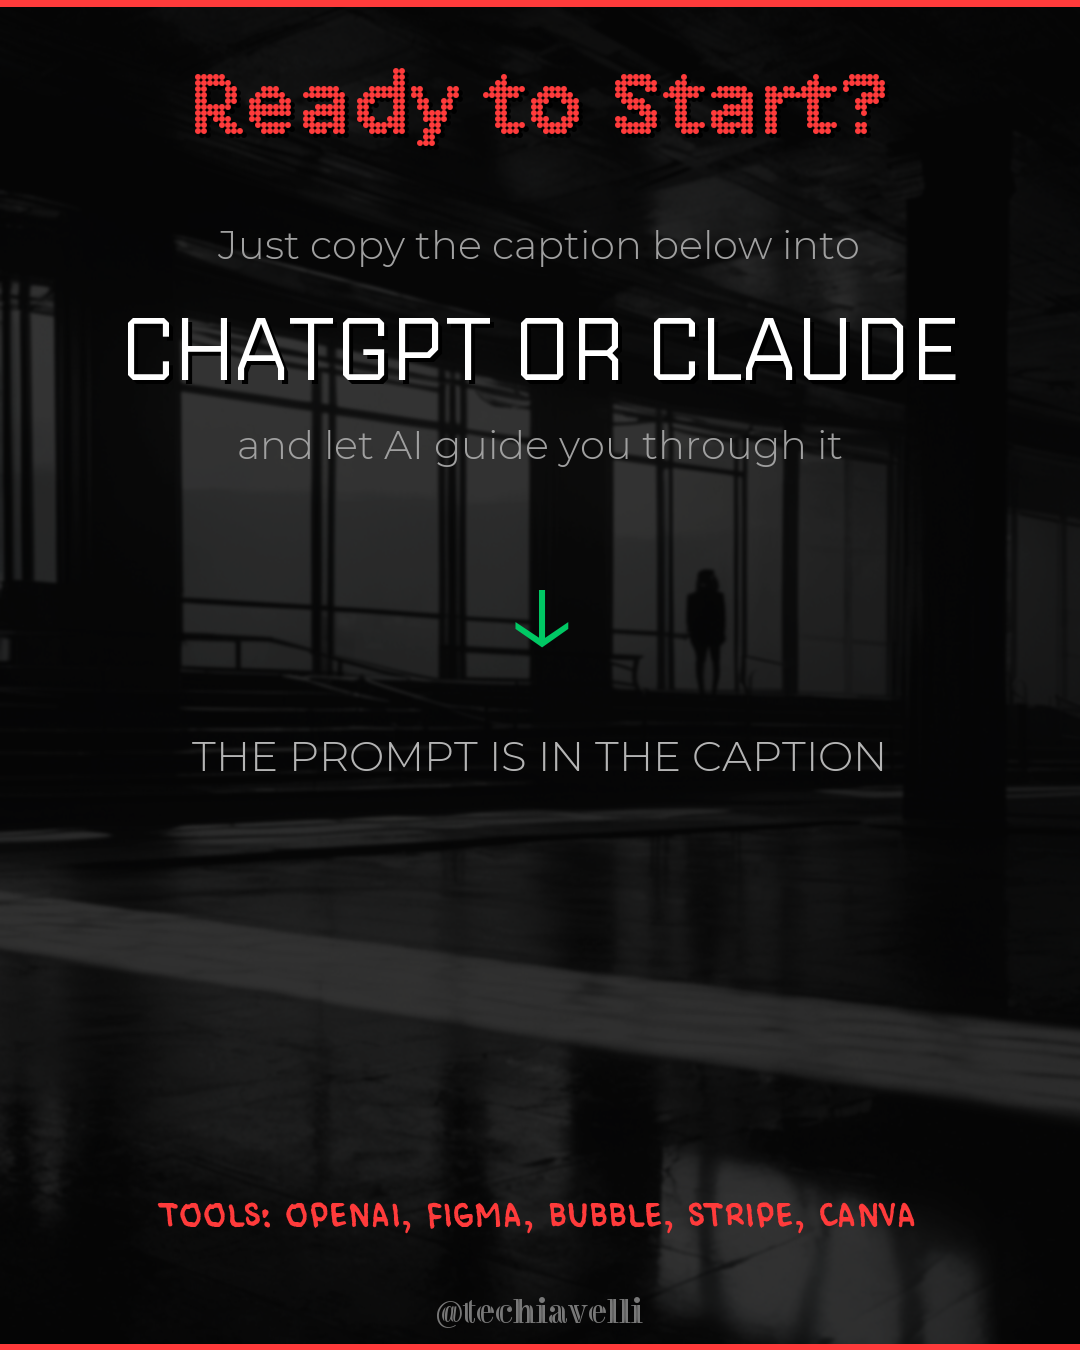
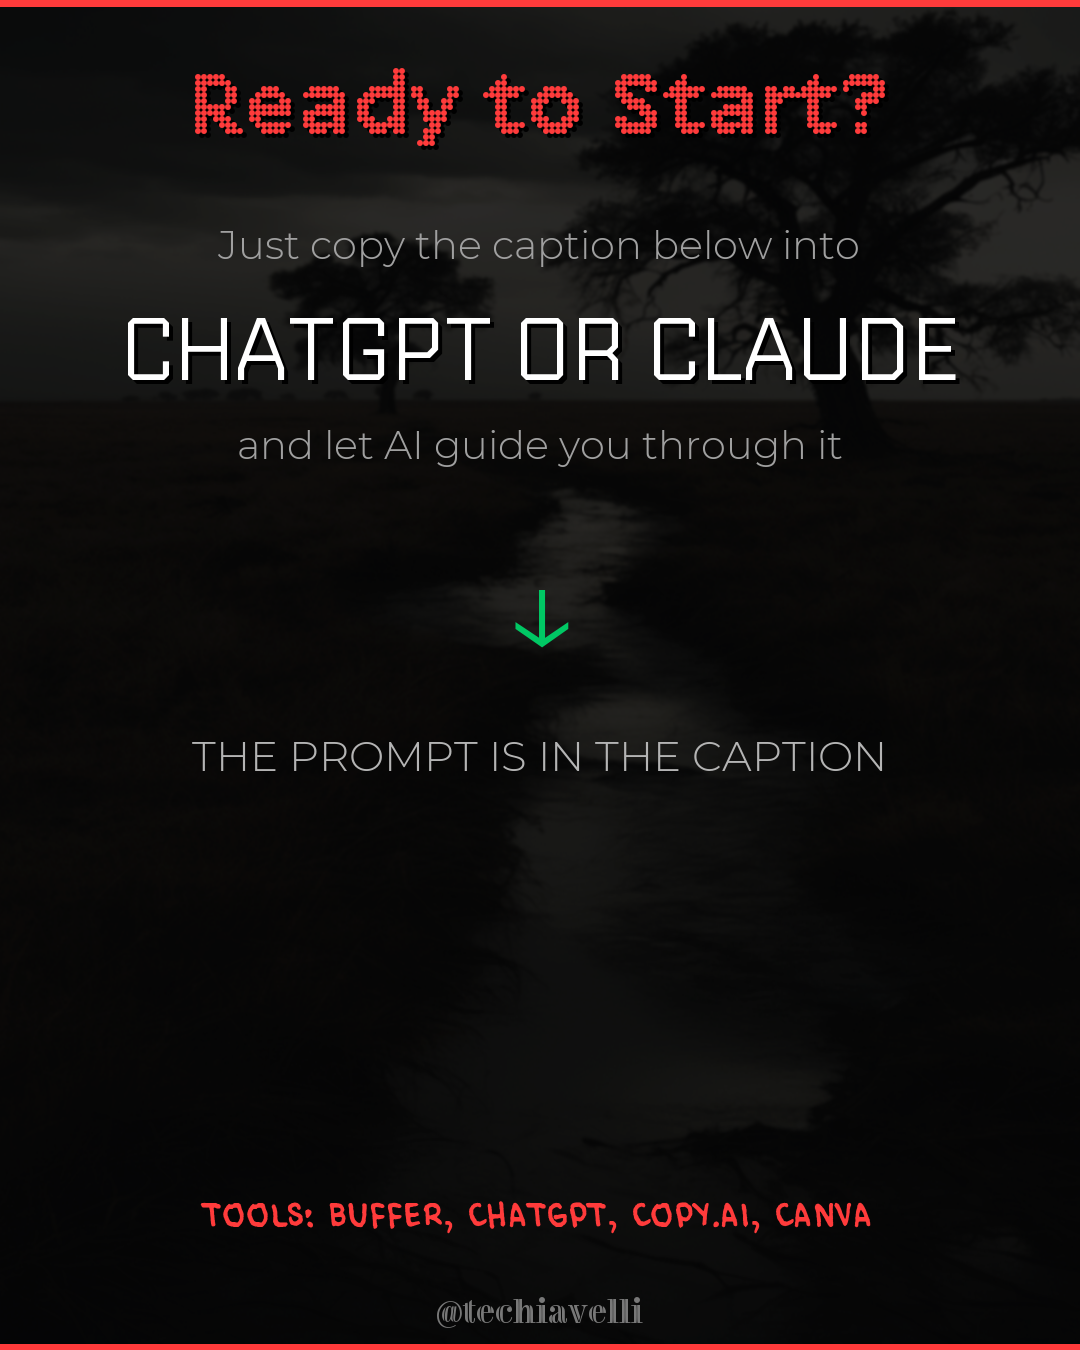
Update title slide text and appearance for daily aids
Modify `scripts/daily_aid_slide_builder.py` to change header text from "Daily Ai'ds" to "Daily Dose of Ai'ds", increase footer tagline font size, and remove top/bottom red borders. Regenerates preview PNGs.

Replit-Commit-Author: Agent
Replit-Commit-Session-Id: e097bc39-29f9-42ff-9f58-d372b871b7d4
Replit-Commit-Checkpoint-Type: full_checkpoint
Replit-Commit-Event-Id: 71e7da55-5faf-459a-8d2d-120b144892d0

diff --git a/scripts/daily_aid_slide_builder.py b/scripts/daily_aid_slide_builder.py
@@ -241,13 +241,10 @@ class DailyAidSlideBuilder:
         grey_rgb = (170, 170, 170)
         idea_number = idea.get('idea_number', 1)
         
-        draw.rectangle([(0, 0), (self.width, 6)], fill=accent_rgb)
-        draw.rectangle([(0, self.height - 6), (self.width, self.height)], fill=accent_rgb)
-        
         left_margin = 60
         max_text_width = self.width - (left_margin * 2)
         
-        header_text = f"Daily Ai'ds #{idea_number}"
+        header_text = f"Daily Dose of Ai'ds #{idea_number}"
         header_font = ImageFont.truetype('assets/fonts/Array-Wide.ttf', 95)
         bbox = draw.textbbox((0, 0), header_text, font=header_font)
         header_x = (self.width - (bbox[2] - bbox[0])) // 2
@@ -308,17 +305,17 @@ class DailyAidSlideBuilder:
             draw.text((left_margin, earnings_y), line, font=method_font, fill=grey_rgb)
             earnings_y += method_line_h
         
-        tagline_font = ImageFont.truetype('assets/fonts/Comico-Regular.ttf', 30)
+        tagline_font = ImageFont.truetype('assets/fonts/Comico-Regular.ttf', 42)
         tagline = "The hardest part is getting started..."
         tagline2 = "So why give it a shot?"
         
         bbox = draw.textbbox((0, 0), tagline, font=tagline_font)
         x = (self.width - (bbox[2] - bbox[0])) // 2
-        draw.text((x, self.height - 150), tagline, font=tagline_font, fill=accent_rgb)
+        draw.text((x, self.height - 170), tagline, font=tagline_font, fill=accent_rgb)
         
         bbox = draw.textbbox((0, 0), tagline2, font=tagline_font)
         x = (self.width - (bbox[2] - bbox[0])) // 2
-        draw.text((x, self.height - 110), tagline2, font=tagline_font, fill=accent_rgb)
+        draw.text((x, self.height - 120), tagline2, font=tagline_font, fill=accent_rgb)
         
         watermark = self.branding.get('watermark', '@techiavelli')
         watermark_font = ImageFont.truetype('assets/fonts/Zina-Regular.ttf', 32)
